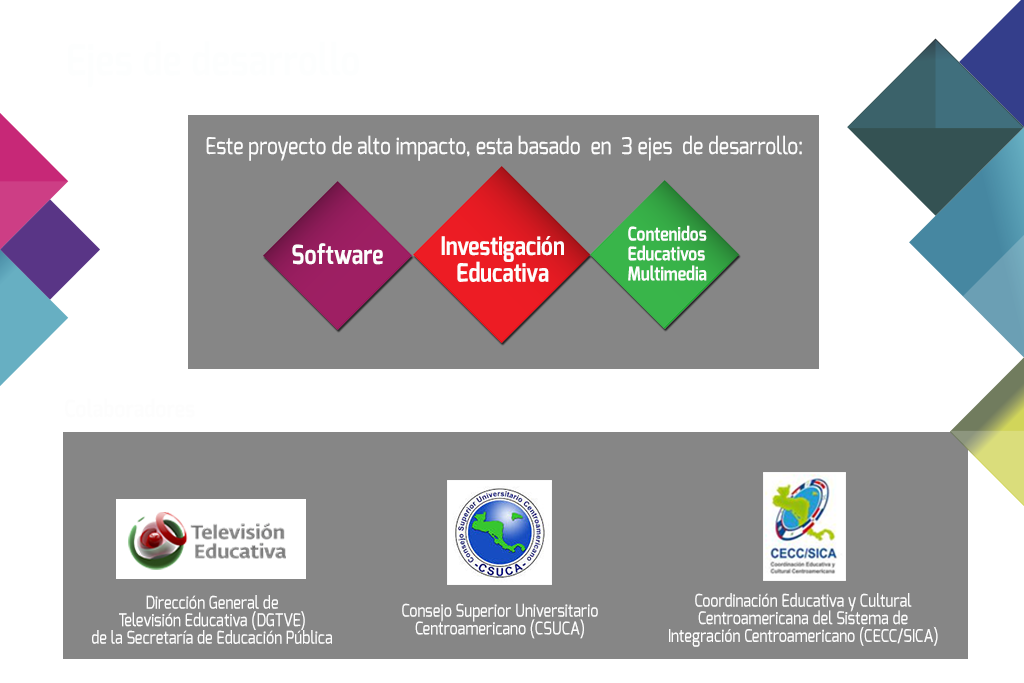
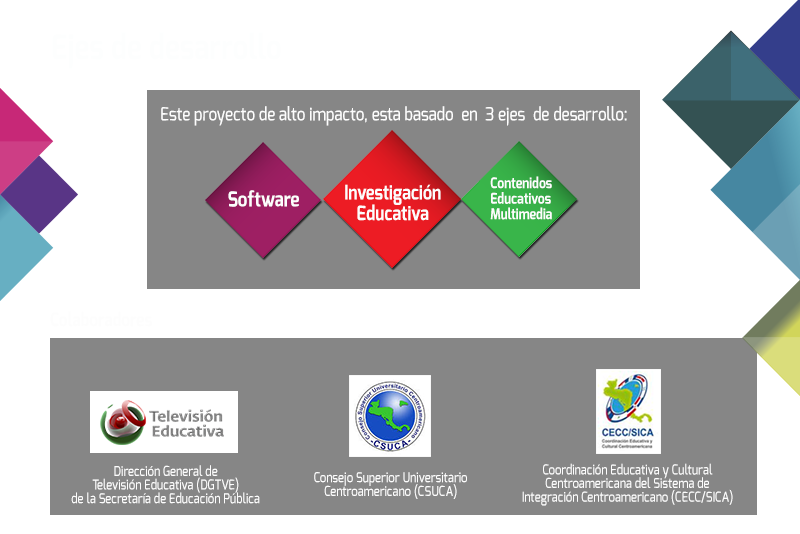
Se cambiaron las laminas de presentación por una resolución más pequeña. se agrego menu para resoluciones pequeñas

diff --git a/public/css/ventana/estiloventana2.css b/public/css/ventana/estiloventana2.css
@@ -2,7 +2,11 @@
 body{background:url(../../imagenes/ventana/background/BackgroundDefault.jpg) no-repeat center center fixed;-webkit-background-size:cover;-moz-background-size:cover;-o-background-size:cover;background-size:cover;height:100%;width:100%;}
 .navbarHome li{color:#000}
 .fotoUsuario{border-radius:200px 200px 200px 200px;-moz-border-radius:200px 200px 200px 200px;-webkit-border-radius:200px 200px 200px 200px;border:2px solid white;width:30px;height:30px;color:white;font-weight:bold;font-size:20px;}
-.iconoApps{margin-top:5%;width:38px;height:28px;}
+.fondoRegistro{background:rgba(0, 0, 0, .3) !important;margin-top:20% !important;width:320px;height:230px;}
+    .fondoRegistro:after{content:"";display:block;width:0;height:0;margin-left:284px;border-left:12px solid transparent;border-right:12px solid transparent;border-bottom:12px solid rgba(0, 0, 0, .3) !important;margin-top:-234px;}
+    .frmRegistro{background:rgba(0, 0, 0, .3);margin-top:5%;color:white;font-family:Ubuntu;}
+    .collapseBarra{background-color:transparent;background:transparent;border-color:transparent;}
+    .iconoApps{margin-top:5%;width:38px;height:28px;}    
 .menuVentana{background-color:transparent;background:transparent;border-color:transparent;}
 .divli{margin-top:10%;padding:5px;cursor:pointer;}
 .btn-login{background-color:#17a91c;outline:none;color:#fff;font-size:14px;height:auto;font-weight:normal;padding:14px 0;text-transform:uppercase;border-color:#17a91c;}
@@ -16,8 +20,8 @@ body{background:url(../../imagenes/ventana/background/BackgroundDefault.jpg) no-
 .btn-register:focus{color:#fff;background-color:#1CA347;border-color:#1CA347;}
 .navbar-login{width:300px;padding:10px;padding-bottom:0px;}
 .navbar-login-session{padding:10px;padding-bottom:0px;padding-top:0px;margin-left:5%;}
-.fondoRegistro{background:rgba(0, 0, 0, .3) !important;margin-top:20% !important;width:320px;height:230px;}
-.fondoRegistro:after{content:"";display:block;width:0;height:0;margin-left:284px;border-left:12px solid transparent;border-right:12px solid transparent;border-bottom:12px solid rgba(0, 0, 0, .3) !important;margin-top:-234px;}
+
+
 .menuVentanaApps{background:rgba(255, 255, 255, .5) !important;}
 .clsDatePicker{z-index:100000 !important;}
 #presentacion{margin-top:5%;padding:5px;background:transparent !important;width:100%;}
@@ -59,35 +63,25 @@ body{background:url(../../imagenes/ventana/background/BackgroundDefault.jpg) no-
 }
 @media (min-width: 350px) { 
     .imgLogo{
-        width: 35% \9; /*Force IE10 and below to size SVG images correctly*/
-        max-width: 35%;
-    }
-    .frmRegistro{
-        margin-top: 17%;
-    }
-    .collapseBarra{
-        background:#000;
-    }
-    .fondoRegistro{
-        margin-top: 0;
-    }
-
-}
-@media (min-width: 768px) { 
-    .imgLogo{
         width: 50% \9; /*Force IE10 and below to size SVG images correctly*/
         max-width: 50%;
     }
-    .collapseBarra{background-color:transparent;background:transparent;border-color:transparent;}
+    .frmRegistro{
+        margin-top: 17%;
+    }       
+}
+@media (min-width: 768px) { 
+    .imgLogo{
+        width: 50% \9;
+        max-width: 50%;
+    }
 }
 
 @media (min-width: 1024px) { 
     .imgLogo{
         width: 50% \9; /*Force IE10 and below to size SVG images correctly*/
         max-width: 50%;
-    }
-    .collapseBarra{background-color:transparent;background:transparent;border-color:transparent;}
-    
+    }    
 }
 
 @media (min-width: 1200px) {
@@ -95,8 +89,5 @@ body{background:url(../../imagenes/ventana/background/BackgroundDefault.jpg) no-
         width: 100% \9; /*Force IE10 and below to size SVG images correctly*/
         max-width: 100%;
     }
-    .fondoRegistro{background:rgba(0, 0, 0, .3) !important;margin-top:20% !important;width:320px;height:230px;}
-    .fondoRegistro:after{content:"";display:block;width:0;height:0;margin-left:284px;border-left:12px solid transparent;border-right:12px solid transparent;border-bottom:12px solid rgba(0, 0, 0, .3) !important;margin-top:-234px;}
-    .frmRegistro{background:rgba(0, 0, 0, .3);margin-top:5%;color:white;font-family:Ubuntu;}
-    .collapseBarra{background-color:transparent;background:transparent;border-color:transparent;}
+    
 }

diff --git a/resources/views/viewVentana/encabezadoVentana.blade.php b/resources/views/viewVentana/encabezadoVentana.blade.php
@@ -7,80 +7,80 @@
         </button>    
         <a href="ventana_educativa"><img class="image-responsive imgLogo " src="imagenes/ventana/encabezado/logoventana.png"></a>
     </div> 
-    <div class="navbar-collapse collapse collapseBarra">
-        <ul class=" nav navbar-nav navbar-right">
-            <!--<li class="col-md-pull-12 col-xs-pull-4 col-sm-pull-2 libuscar">-->
-            <li class="libuscar col-md-pull-11 col-xs-offset-6">
-                <form action="" class="search-form" style="width: 200px;">
-                    <div class="form-group has-feedback">
-                        <label for="search" class="sr-only">Buscar</label>
-                        <input type="text" class="form-control" name="buscar" id="buscar" placeholder="buscar">
-                        <span class="glyphicon glyphicon-search form-control-feedback spanbuscar"></span>
-                    </div>
-                </form>
-            </li>
-            <li class="dropdown">
-                <div class=" divli dropdown-toggle" data-toggle="dropdown">
-                    <img class="iconoApps"  src="imagenes/ventana/encabezado/iconoApps.png">
+    <!--<div class="navbar-collapse collapse collapseBarra">-->
+    <ul class=" hidden-xs nav navbar-nav navbar-right">
+        <!--<li class="col-md-pull-12 col-xs-pull-4 col-sm-pull-2 libuscar">-->
+        <li class="libuscar col-md-pull-11 col-xs-offset-6">
+            <form action="" class="search-form" style="width: 200px;">
+                <div class="form-group has-feedback">
+                    <label for="search" class="sr-only">Buscar</label>
+                    <input type="text" class="form-control" name="buscar" id="buscar" placeholder="buscar">
+                    <span class="glyphicon glyphicon-search form-control-feedback spanbuscar"></span>
                 </div>
-                <ul class="dropdown-menu image-responsive menuVentanaApps">
-                    <table class="">
-                        <tr>
-                            <td class="divApp centered">
-                                <a class="text-center" href="ventana_educativa"><img src="imagenes/ventana/encabezado/appVentana.png" class="img-responsive"></a>
-                                <label class="etiquetaApp text-center">Ventana Educativa</label>
-                            </td>
-                            <td class="divApp centered">
-                                <a class="text-center" href="http://redmite.televisioneducativa.gob.mx/" target="_blank"><img src="imagenes/ventana/encabezado/appRed.png" class="img-responsive"></a>
-                                <label class="etiquetaApp text-center">Red <br> Mesoamericana</label>
-                            </td>
-                            <td class="divApp centered">
-                                <a class="text-center" href="http://mx.televisioneducativa.gob.mx" target="_blank"><img src="imagenes/ventana/encabezado/appMexico.png" class="img-responsive"></a>
-                                <label class="etiquetaApp text-center">MéxicoX</label>
-                            </td>                            
-                        </tr>
-                        <tr>
-                            <td class="divApp" style="vertical-align:middle !important;">
-                                <a class="text-center" target="_blank" href="http://www.ibe.tv/es/canal/iberoamericano/756/Iberoam%C3%A9rica-al-d%C3%ADa-1032016.htm"><img class="img-responsive" src="imagenes/ventana/encabezado/appIbero.png"></a>
-                                <label class="etiquetaApp text-center">Canal <br> Iberoamericano</label>
-                            </td>
-                            <td class="divApp">
-                                <a class="" href="#"><img src=""></a>
-                                <label class="etiquetaApp text-center"></label>
-                            </td>
-                            <td class="divApp">
-                                <a class="" href="#"><img src=""></a>
-                                <label class="etiquetaApp text-center"></label>
-                            </td>                            
-                        </tr>                      
-                    </table>                                       
-                </ul>
-            </li>
-            <li class="dropdown">
-                <div class=" divli dropdown-toggle" data-toggle="dropdown">
-                    <div class="fotoUsuario text-center">R</div>
-                </div>
-                <ul class="dropdown-menu fondoRegistro">
-                    <li class="panel-body">
-                        <div class="row">
-                            <div class="col-lg-12 col-md-12">
-                                @if (Auth::guest ())
-                                <form id="login-form" action="sessions" method="POST" role="form" style="display: block;">
-                                    <input type="hidden" name="_token" value="{{ csrf_token() }}" />
-                                    <div class="form-group">
-                                        <input type="email" name="email"  tabindex="1" class="form-control inputLogin" placeholder="Usuario" value="">
-                                    </div>
-                                    <div class="form-group">
-                                        <input type="password" name="password"  tabindex="2" class="form-control inputLogin" placeholder="Contraseña">
-                                    </div>
-                                    <div class="form-group">
-                                        <div class="row">
-                                            <div class="col-sm-12 col-md-6 col-md-offset-3">
-                                                <input type="submit" name="login-submit" style="color: white;" id="login-submit" tabindex="4" class="form-control btn btn-sm" value="Entrar">
-                                            </div>
+            </form>
+        </li>
+        <li class="dropdown">
+            <div class=" divli dropdown-toggle" data-toggle="dropdown">
+                <img class="iconoApps"  src="imagenes/ventana/encabezado/iconoApps.png">
+            </div>
+            <ul class="dropdown-menu image-responsive menuVentanaApps">
+                <table class="">
+                    <tr>
+                        <td class="divApp centered">
+                            <a class="text-center" href="ventana_educativa"><img src="imagenes/ventana/encabezado/appVentana.png" class="img-responsive"></a>
+                            <label class="etiquetaApp text-center">Ventana Educativa</label>
+                        </td>
+                        <td class="divApp centered">
+                            <a class="text-center" href="http://redmite.televisioneducativa.gob.mx/" target="_blank"><img src="imagenes/ventana/encabezado/appRed.png" class="img-responsive"></a>
+                            <label class="etiquetaApp text-center">Red <br> Mesoamericana</label>
+                        </td>
+                        <td class="divApp centered">
+                            <a class="text-center" href="http://mx.televisioneducativa.gob.mx" target="_blank"><img src="imagenes/ventana/encabezado/appMexico.png" class="img-responsive"></a>
+                            <label class="etiquetaApp text-center">MéxicoX</label>
+                        </td>                            
+                    </tr>
+                    <tr>
+                        <td class="divApp" style="vertical-align:middle !important;">
+                            <a class="text-center" target="_blank" href="http://www.ibe.tv/es/canal/iberoamericano/756/Iberoam%C3%A9rica-al-d%C3%ADa-1032016.htm"><img class="img-responsive" src="imagenes/ventana/encabezado/appIbero.png"></a>
+                            <label class="etiquetaApp text-center">Canal <br> Iberoamericano</label>
+                        </td>
+                        <td class="divApp">
+                            <a class="" href="#"><img src=""></a>
+                            <label class="etiquetaApp text-center"></label>
+                        </td>
+                        <td class="divApp">
+                            <a class="" href="#"><img src=""></a>
+                            <label class="etiquetaApp text-center"></label>
+                        </td>                            
+                    </tr>                      
+                </table>                                       
+            </ul>
+        </li>
+        <li class="dropdown">
+            <div class=" divli dropdown-toggle" data-toggle="dropdown">
+                <div class="fotoUsuario text-center">R</div>
+            </div>
+            <ul class="dropdown-menu fondoRegistro">
+                <li class="panel-body">
+                    <div class="row">
+                        <div class="col-lg-12 col-md-12">
+                            @if (Auth::guest ())
+                            <form id="login-form" action="sessions" method="POST" role="form" style="display: block;">
+                                <input type="hidden" name="_token" value="{{ csrf_token() }}" />
+                                <div class="form-group">
+                                    <input type="email" name="email"  tabindex="1" class="form-control inputLogin" placeholder="Usuario" value="">
+                                </div>
+                                <div class="form-group">
+                                    <input type="password" name="password"  tabindex="2" class="form-control inputLogin" placeholder="Contraseña">
+                                </div>
+                                <div class="form-group">
+                                    <div class="row">
+                                        <div class="col-sm-12 col-md-6 col-md-offset-3">
+                                            <input type="submit" name="login-submit" style="color: white;" id="login-submit" tabindex="4" class="form-control btn btn-sm" value="Entrar">
                                         </div>
                                     </div>
-                                    <div class="col-md-12">
+                                </div>
+                                <div class="col-md-12">
                                     <div class="col-md-6 text-center">
                                         <a href="{{url('password/email')}}" tabindex="5" style="color: white;" class="forgot-password">Olvide mi contraseña</a>
                                     </div>
@@ -88,18 +88,108 @@
                                     <div class=" col-md-6 text-center">
                                         <a href="registro"  tabindex="5" style="color: white;" class="forgot-password">Registrate</a>
                                     </div>
-                                    </div>
-                                </form>
-                                @else
-                                loggeado
-                                {{Auth::user()->email}}
-                                <a href="logout" tabindex="5" style="color: white;" class="forgot-password">Cerrar Sesión</a>
-                                @endif
-                            </div>
+                                </div>
+                            </form>
+                            @else
+                            loggeado
+                            {{Auth::user()->email}}
+                            <a href="logout" tabindex="5" style="color: white;" class="forgot-password">Cerrar Sesión</a>
+                            @endif
                         </div>
-                    </li>
-                </ul>
-            </li>
-        </ul>
-    </div>
+                    </div>
+                </li>
+            </ul>
+        </li>
+    </ul>
+    <!--</div>-->
 </nav>
+
+<div class="navbar navbar-inverse navbar-fixed-top visible-xs" role="navigation">
+    <div class="container">
+        <div class="navbar-header">
+            <button type="button" class="navbar-toggle" data-toggle="collapse" data-target=".navbar-collapse">
+                <span class="sr-only">Toggle navigation</span>
+                <span class="icon-bar"></span>
+                <span class="icon-bar"></span>
+                <span class="icon-bar"></span>
+            </button>
+            <a class="navbar-brand" href="ventana-educativa"><img class="img-responsive imgLogo" src="imagenes/ventana/encabezado/logoventana.png"></a>
+        </div>
+        <div class="collapse navbar-collapse">
+            <ul class="nav navbar-nav">
+                <li class="dropdown">
+                    <div class="dropdown-toggle" data-toggle="dropdown">
+                        <img class="imgLogo"  src="imagenes/ventana/encabezado/iconoApps.png">
+                    </div>
+                    <ul class="dropdown-menu">
+                        <table class="table table-bordered">
+                            <tr>
+                                <td class="centered">
+                                    <a class="text-center" href="ventana_educativa"><img src="imagenes/ventana/encabezado/appVentana.png" class="img-responsive"></a>
+                                    <label class="etiquetaApp text-center">Ventana Educativa</label>
+                                </td>
+                                <td class="centered">
+                                    <a class="text-center" href="http://redmite.televisioneducativa.gob.mx/" target="_blank"><img src="imagenes/ventana/encabezado/appRed.png" class="img-responsive"></a>
+                                    <label class="etiquetaApp text-center">Red  Mesoamericana</label>
+                                </td>
+                                <td class="centered">
+                                    <a class="text-center" href="http://mx.televisioneducativa.gob.mx" target="_blank"><img src="imagenes/ventana/encabezado/appMexico.png" class="img-responsive"></a>
+                                    <label class="etiquetaApp text-center">MéxicoX</label>
+                                </td>                             
+                                <td class="centered">
+                                    <a class="text-center" target="_blank" href="http://www.ibe.tv/es/canal/iberoamericano/756/Iberoam%C3%A9rica-al-d%C3%ADa-1032016.htm"><img class="img-responsive" src="imagenes/ventana/encabezado/appIbero.png"></a>
+                                    <label class="etiquetaApp text-center">CanalIberoamericano</label>
+                                </td>                      
+                            </tr>                      
+                        </table> 
+                    </ul>
+                </li>
+                <li class="dropdown">
+                    <div class="dropdown-toggle" data-toggle="dropdown">
+                        <div class="fotoUsuario text-center">R</div>
+                    </div>
+                    <ul class="dropdown-menu">
+                        @if (Auth::guest ())
+                        <form id="login-form" action="sessions" method="POST" role="form" style="display: block;">
+                            <input type="hidden" name="_token" value="{{ csrf_token() }}" />
+                            <div class="form-group">
+                                <input type="email" name="email"  tabindex="1" class="form-control inputLogin" placeholder="Usuario" value="">
+                            </div>
+                            <div class="form-group">
+                                <input type="password" name="password"  tabindex="2" class="form-control inputLogin" placeholder="Contraseña">
+                            </div>
+                            <div class="form-group">
+                                <div class="row">
+                                    <div class="col-sm-12 col-md-6 col-md-offset-3">
+                                        <input type="submit" name="login-submit" style="color: white;" id="login-submit" tabindex="4" class="form-control btn btn-sm" value="Entrar">
+                                    </div>
+                                </div>
+                            </div>
+                            <div class="col-md-12">
+                                <div class="col-md-6 text-center">
+                                    <a href="{{url('password/email')}}" tabindex="5" style="color: white;" class="forgot-password">Olvide mi contraseña</a>
+                                </div>
+
+                                <div class=" col-md-6 text-center">
+                                    <a href="registro"  tabindex="5" style="color: white;" class="forgot-password">Registrate</a>
+                                </div>
+                            </div>
+                        </form>
+                        @else
+                        loggeado
+                        {{Auth::user()->email}}
+                        <a href="logout" tabindex="5" style="color: white;" class="forgot-password">Cerrar Sesión</a>
+                        @endif
+                    </ul>
+                </li>
+                <li>
+                        <h5 style="color: white;">Buscar</h5>
+                        <form action="">
+                                <label for="search" class="sr-only">Buscar</label>
+                                <input type="text" class="form-control" name="buscar" id="buscar" placeholder="buscar">
+                                <span class="glyphicon glyphicon-search form-control-feedback"></span>
+                        </form>
+                </li>
+            </ul>
+        </div><!--/.nav-collapse -->
+    </div>
